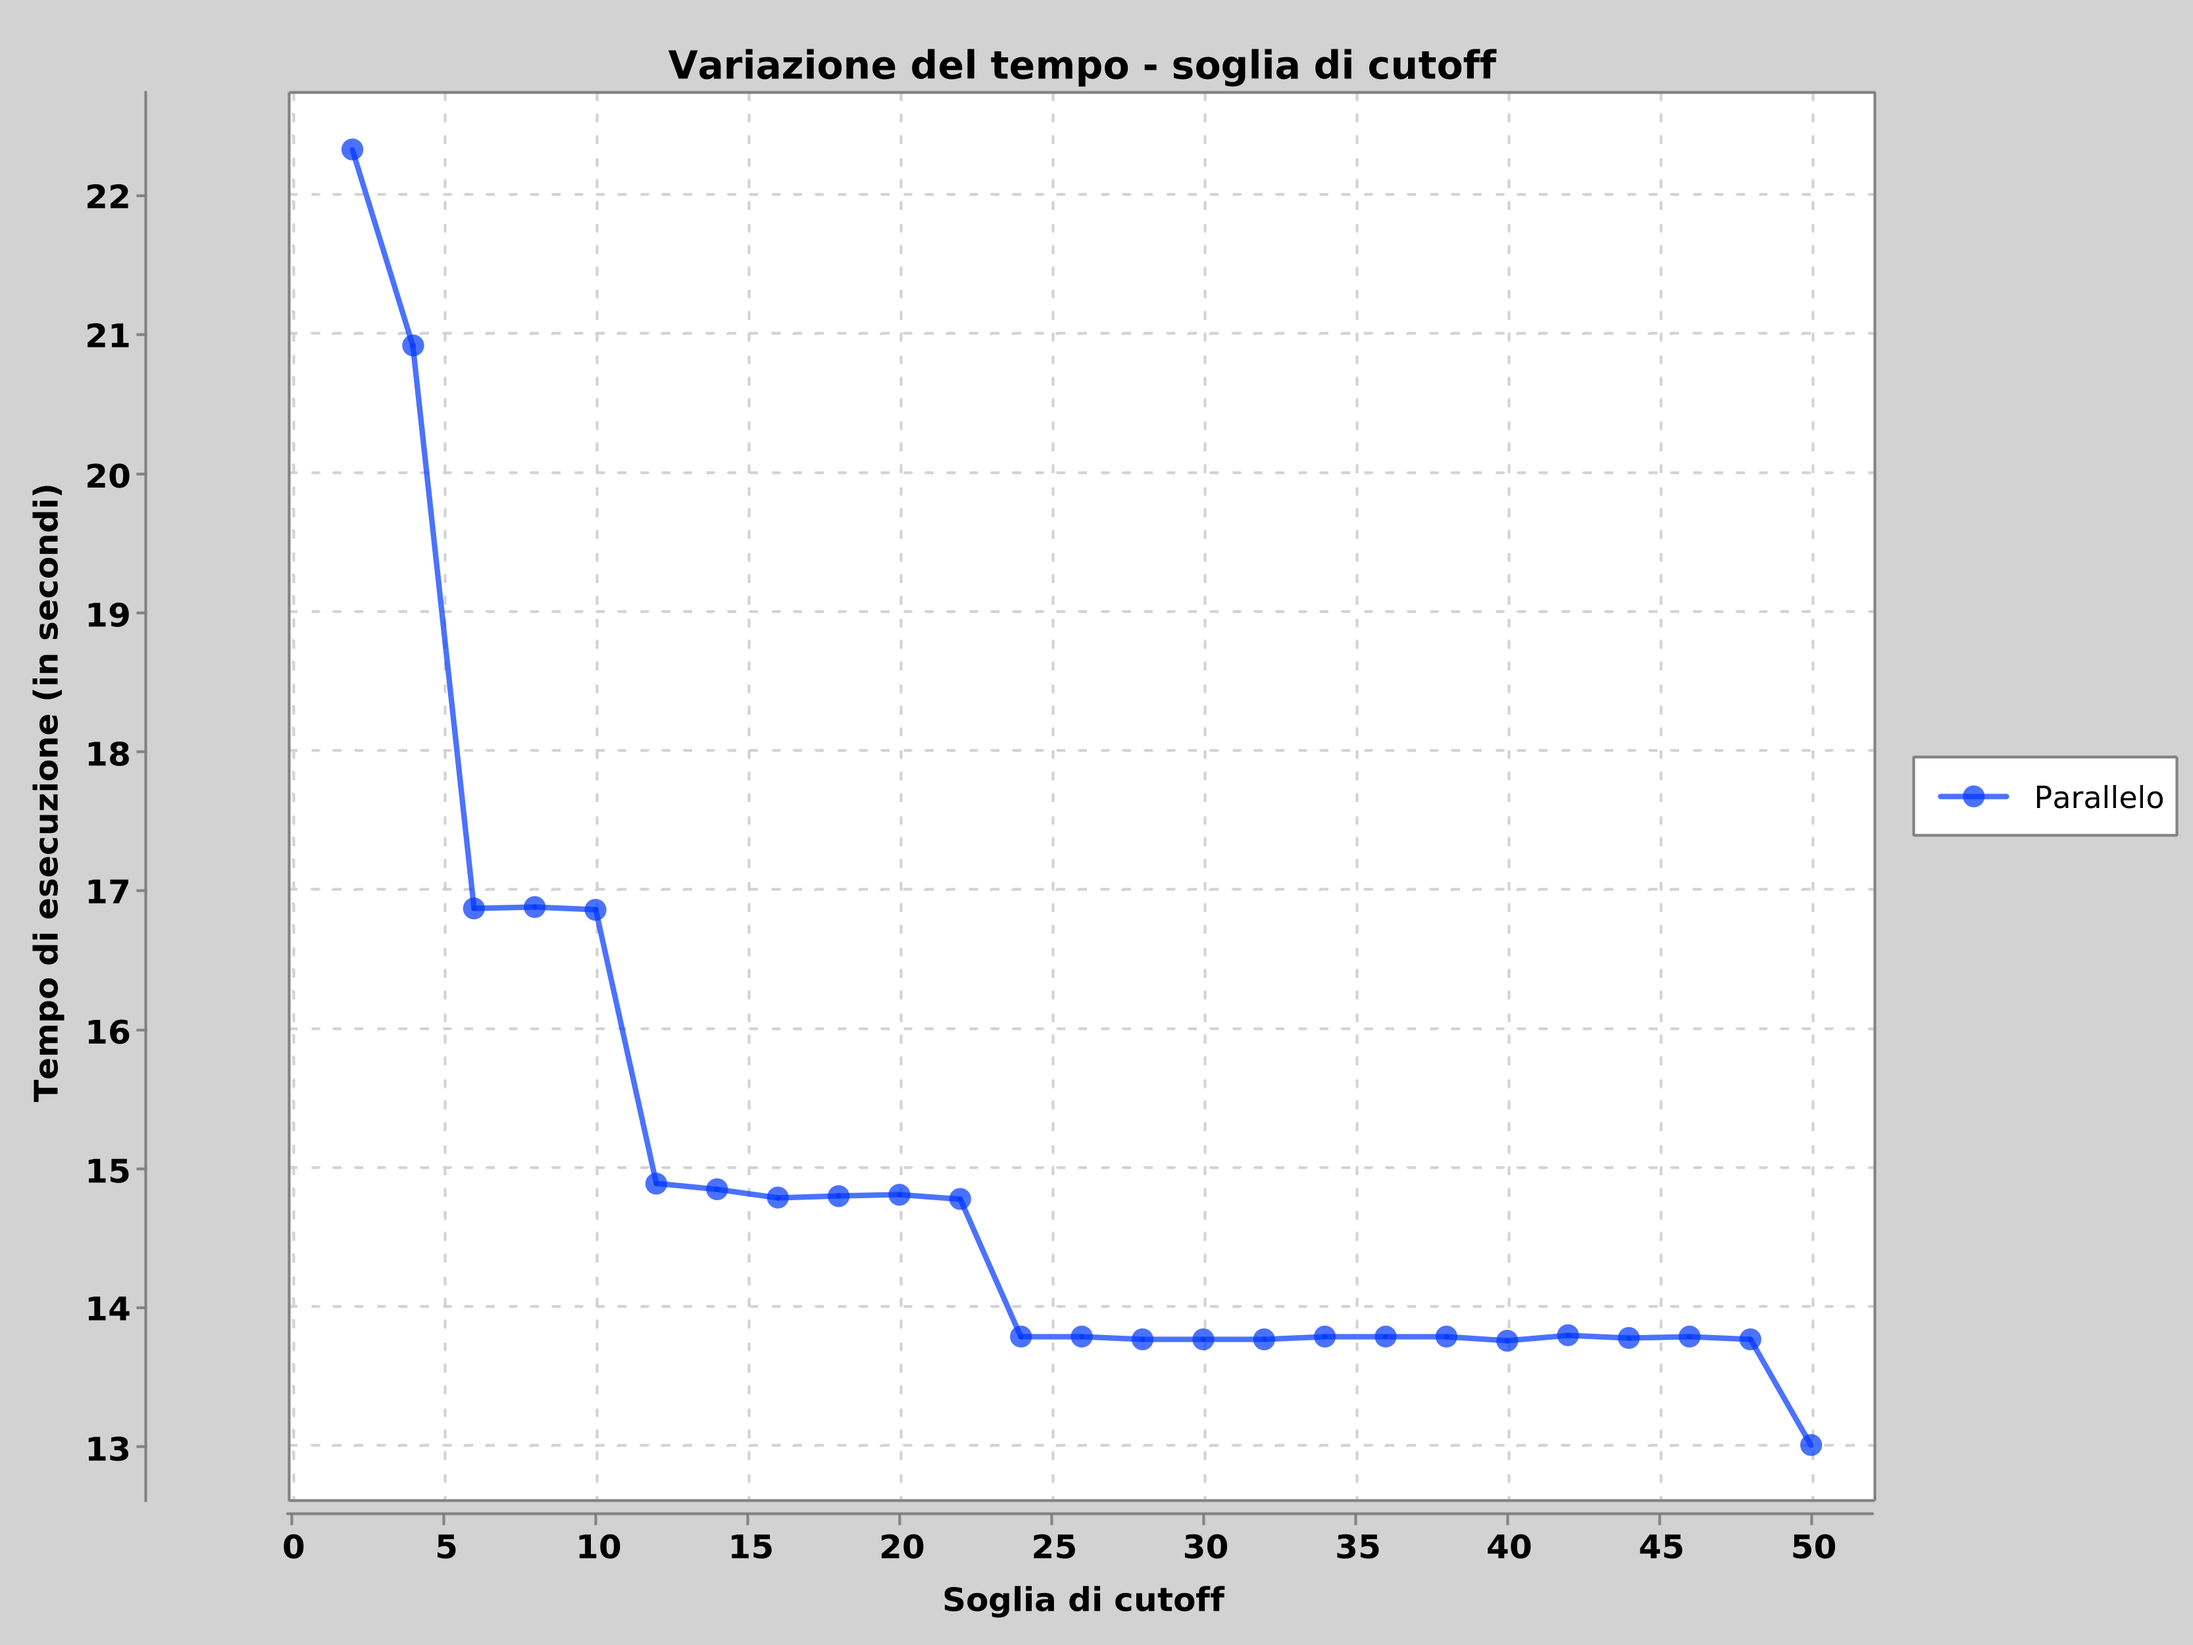
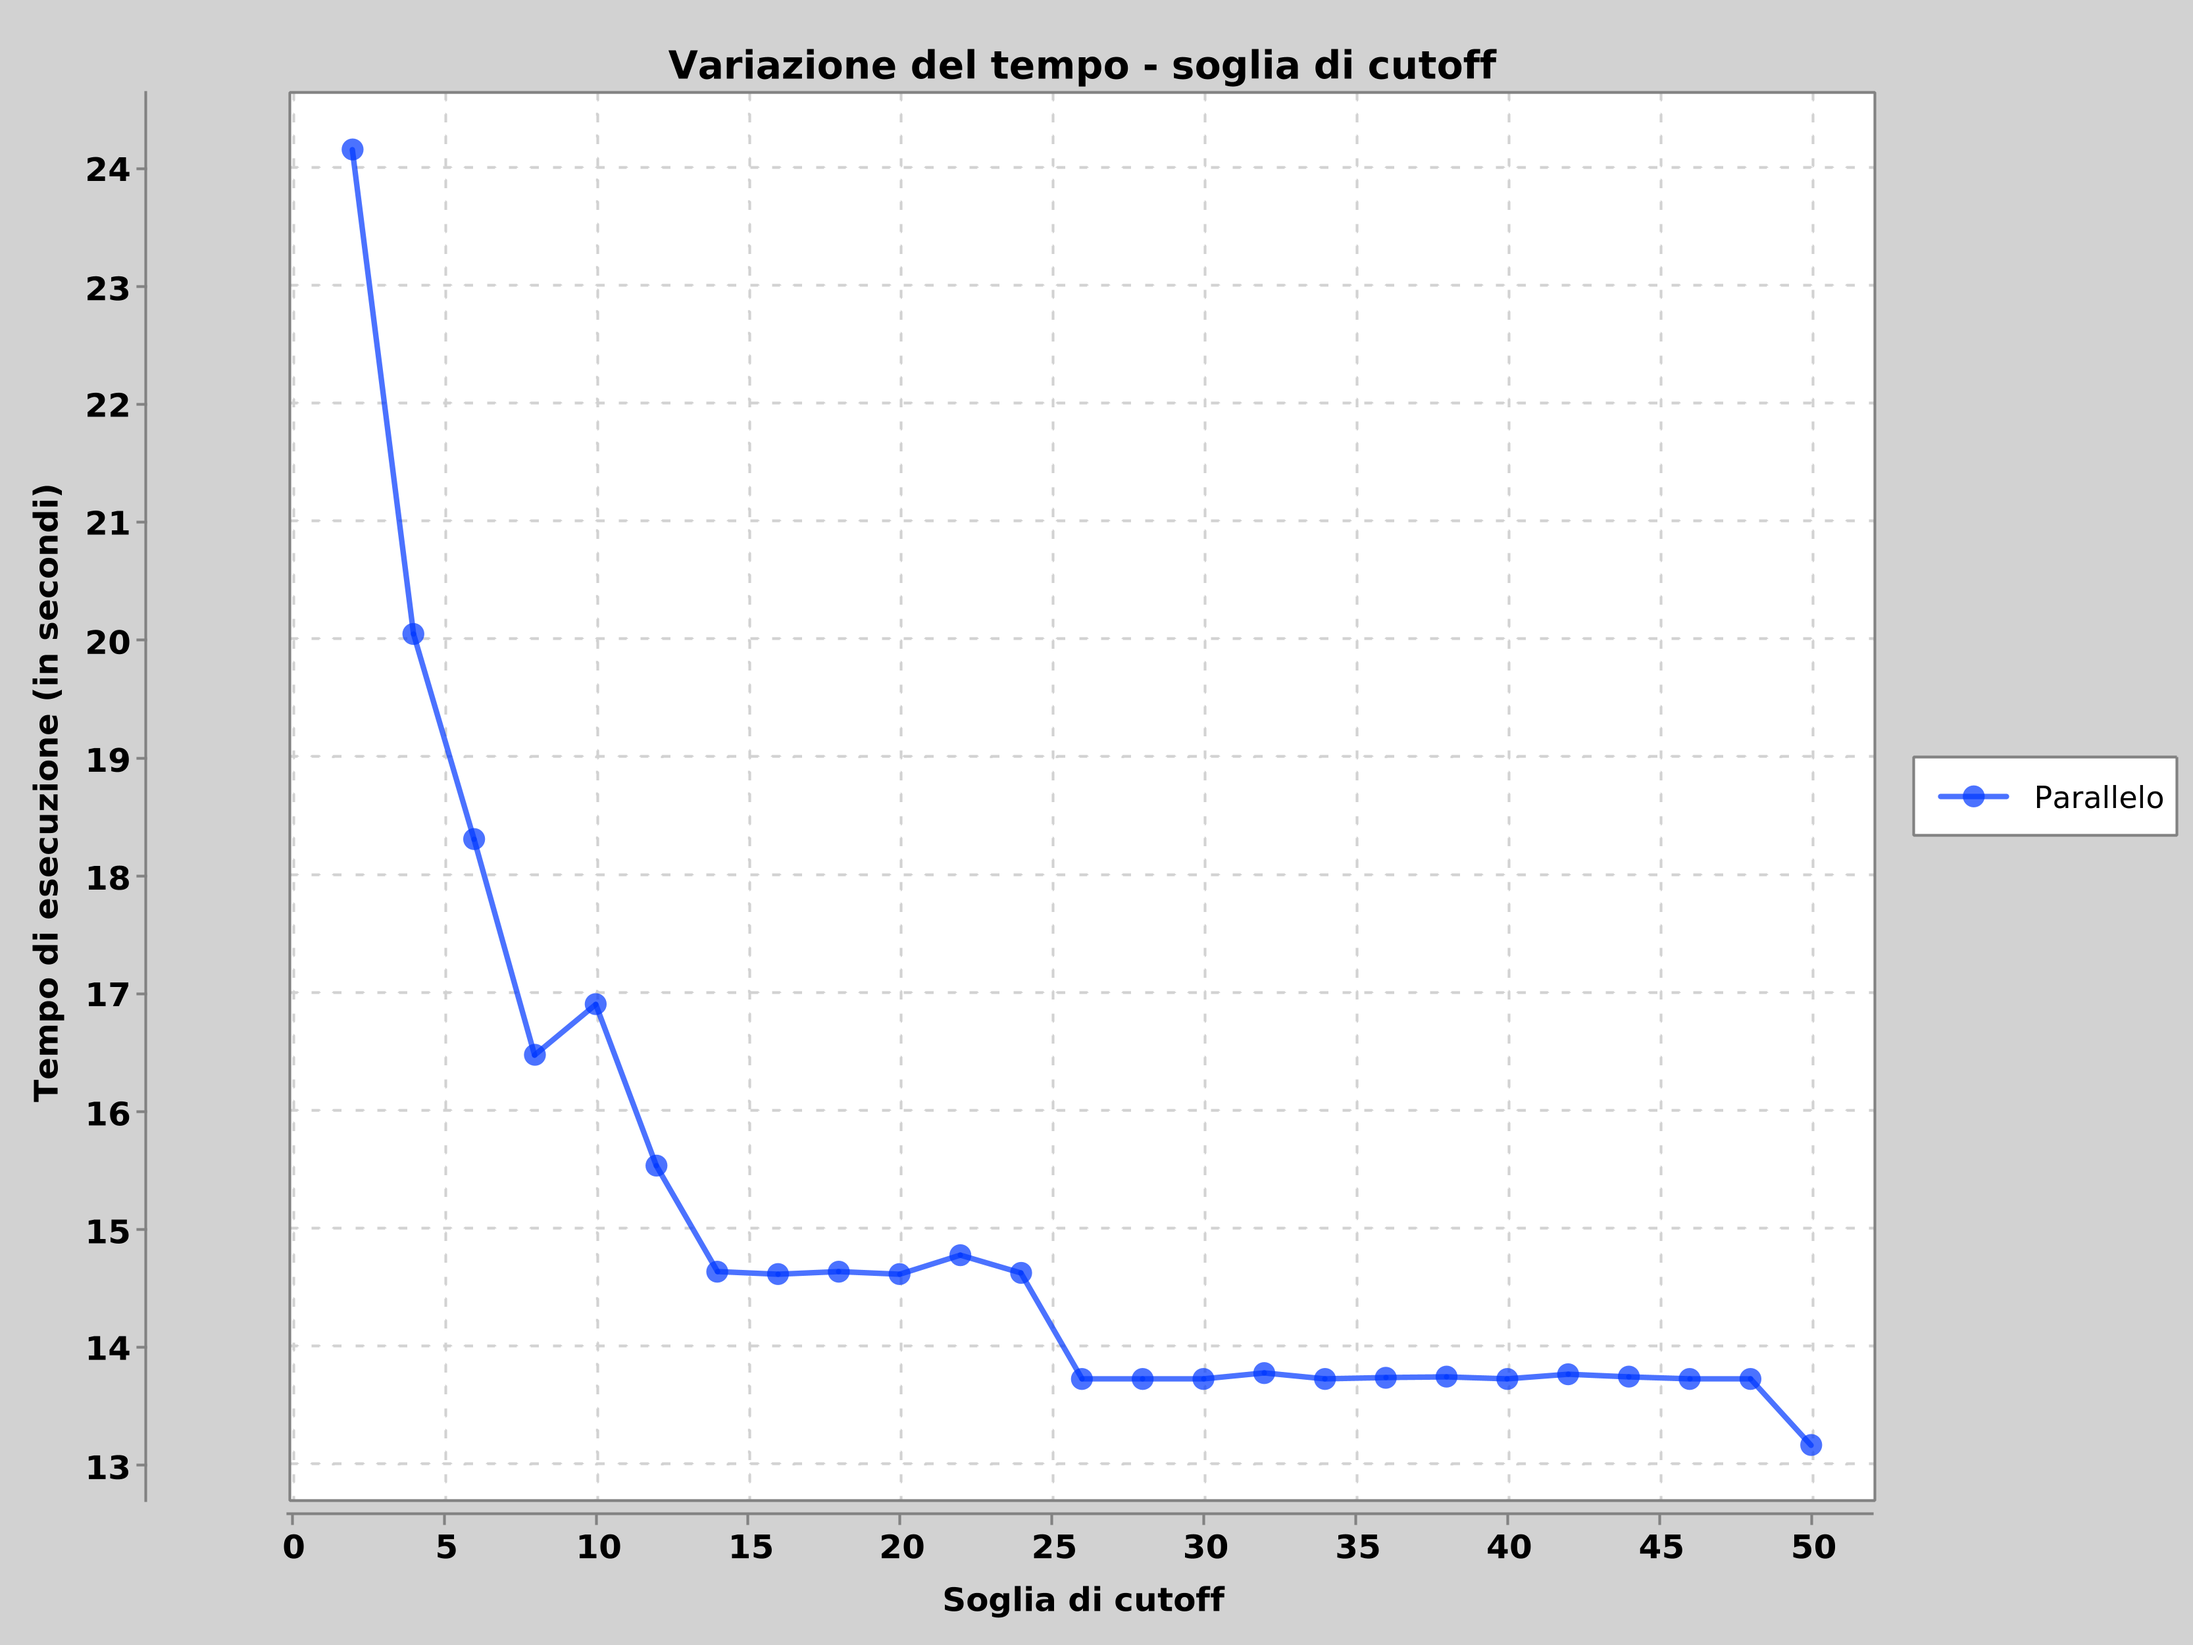
Fix bug elabroazione lunga

diff --git a/esercizio5/src/it/homepc/tagliabuemichele/model/algorithms/NoobPKMeans.java b/esercizio5/src/it/homepc/tagliabuemichele/model/algorithms/NoobPKMeans.java
@@ -6,6 +6,7 @@ import it.homepc.tagliabuemichele.model.Point;
 import it.homepc.tagliabuemichele.utils.ParallelFor;
 
 import java.util.ArrayList;
+import java.util.Arrays;
 import java.util.Collections;
 import java.util.List;
 import java.util.concurrent.RecursiveTask;
@@ -74,22 +75,15 @@ public class NoobPKMeans extends Algorithm {
         listToUpdate.get(l).add(cities.get(j));
     }
 
-    /*
+
+
     protected static List<Cluster> emptyCluster(int number) {
-        List<Cluster> clusters = new ArrayList<>();
-        ParallelFor pf = new ParallelFor(0,number,(i)->clusters.add(new Cluster()));
+        Cluster[] clusters = new Cluster[number];
+        ParallelFor pf = new ParallelFor(0,number,(i)->clusters[i]=new Cluster());
         pf.fork();
         pf.join();
-        System.out.println("Generati "+clusters.size()+" cluster vuoti");
-        return clusters;
-    }*/
-    protected static List<Cluster> emptyCluster(int number) {
-        List<Cluster> clusters = new ArrayList<>();
-        for(int i=0;i<number;i++) {
-            clusters.add(new Cluster());
-        }
 
-        return clusters;
+        return Arrays.asList(clusters);
     }
 
 
@@ -114,21 +108,30 @@ public class NoobPKMeans extends Algorithm {
         if(end-start == 0)
             return start;
 
+
+        //Caso base: due elementi
+        if(end == start + 1) {
+            if(point.distance(centroids.get(start)) < point.distance(centroids.get(end))) {
+                return start;
+            }
+            return end;
+        }
+
         //Caso base: elementi minori della soglia di cutoff
-        if(end-start <= CUTOFF) {
+        if(end-start < CUTOFF) {
             return findNearestCentroidSerial(point,start,end);
         }
 
         //Caso ricorsivo: più di due elementi
         int m = Math.floorDiv(start+end,2);
 
-        NearestCentroidTask multithreadTask = new NearestCentroidTask(point,start,m);
-        NearestCentroidTask recursiveTask = new NearestCentroidTask(point,m+1,end);
+        //NearestCentroidTask multithreadTask = new NearestCentroidTask(point,start,m);
+        //multithreadTask.fork();
 
-        multithreadTask.fork();
 
-        int recursiveResult = recursiveTask.compute();
-        int multithreadResult = multithreadTask.join();
+        int recursiveResult = findNearestCentroidParallel(point,m+1,end);
+        //int multithreadResult = multithreadTask.join();
+        int multithreadResult = findNearestCentroidParallel(point,start,m);
 
         if(point.distance(centroids.get(recursiveResult)) < point.distance(centroids.get(multithreadResult)))
             return recursiveResult;

diff --git a/esercizio5/src/it/homepc/tagliabuemichele/Main.java b/esercizio5/src/it/homepc/tagliabuemichele/Main.java
@@ -25,7 +25,7 @@ public class Main {
     };
 
     private static boolean DOMANDA_1 = false;
-    private static boolean DOMANDA_2 = false;
+    private static boolean DOMANDA_2 = true;
     private static boolean DOMANDA_3 = false;
     private static boolean DOMANDA_4 = true;
 
@@ -89,9 +89,10 @@ public class Main {
             for (int i = 10; i <= 100; i++) {
                 double[] executionResults = runClustering(0, i, 100);
 
-                x[i] = i;
-                serialY[i] = executionResults[0];
-                parallelY[i] = executionResults[1];
+                int index  = i-10;
+                x[index] = i;
+                serialY[index] = executionResults[0];
+                parallelY[index] = executionResults[1];
             }
 
             chart.addSeries("Seriale", x, serialY);
@@ -118,7 +119,9 @@ public class Main {
 
             int clusters = 50;
 
-            for (int cutoff = 2; cutoff <= clusters; cutoff += 2) {
+            //int coreNumbers = Runtime.getRuntime().availableProcessors();
+
+            for (int cutoff = 1; cutoff <= clusters; cutoff++) {
                 NoobPKMeans.CUTOFF = cutoff;
 
                 ESECUZIONE_SERIALE = false;
@@ -143,6 +146,7 @@ public class Main {
 
         KMeans kmeans = null;
         NoobPKMeans pkmeans = null;
+
 
         List<Cluster> kmeansResult = null;
         List<Cluster> pKmeansResult = null;

diff --git a/esercizio5/src/it/homepc/tagliabuemichele/utils/ParallelFor.java b/esercizio5/src/it/homepc/tagliabuemichele/utils/ParallelFor.java
@@ -21,15 +21,20 @@ public class ParallelFor extends RecursiveTask<Void> {
     protected Void compute() {
         List<ParallelForTask> tasksList = new ArrayList<>();
 
+        int iterazioni = 0;
         for(counter = initialization;counter<ceiling;counter++) {
             ParallelForTask t = new ParallelForTask(counter);
-            t.fork();
             tasksList.add(t);
+            t.fork();
+            iterazioni++;
         }
 
-        for(counter = initialization;counter<ceiling;counter++) {
-            tasksList.get(counter).join();
+        iterazioni = 0;
+        for(int i=0;i<tasksList.size();i++) {
+            tasksList.get(i).join();
+            iterazioni++;
         }
+
         return null;
     }
 
